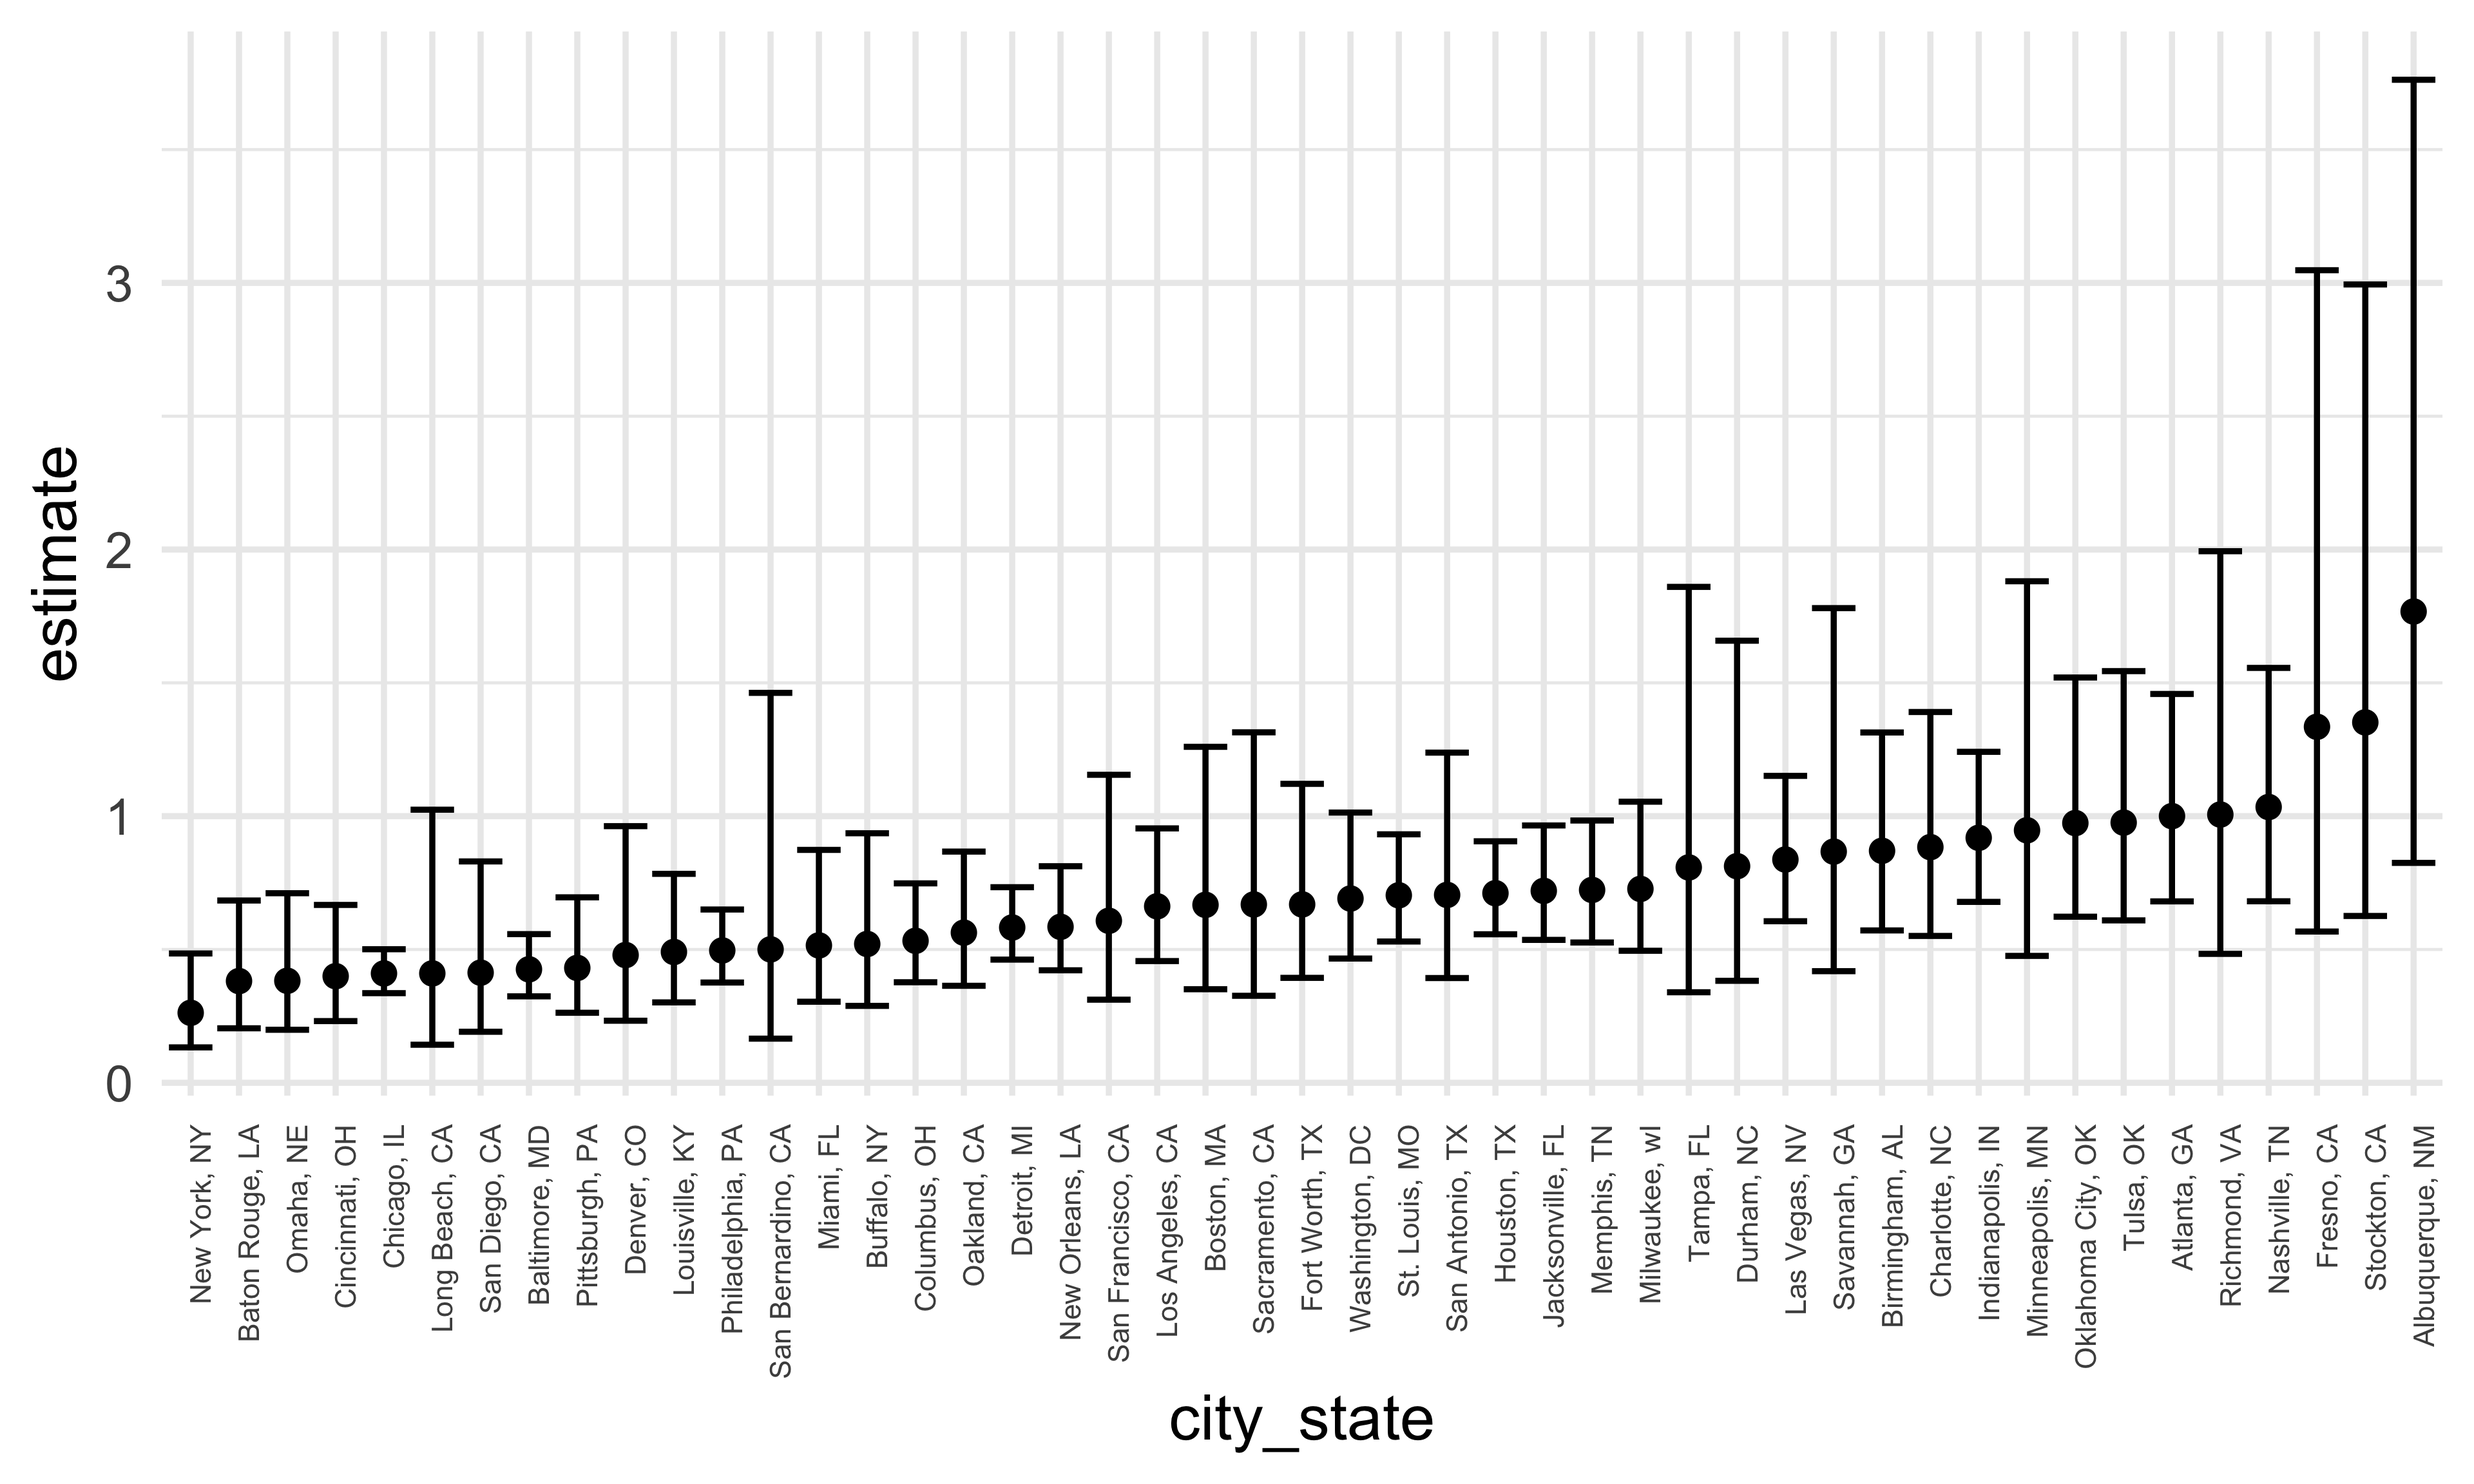
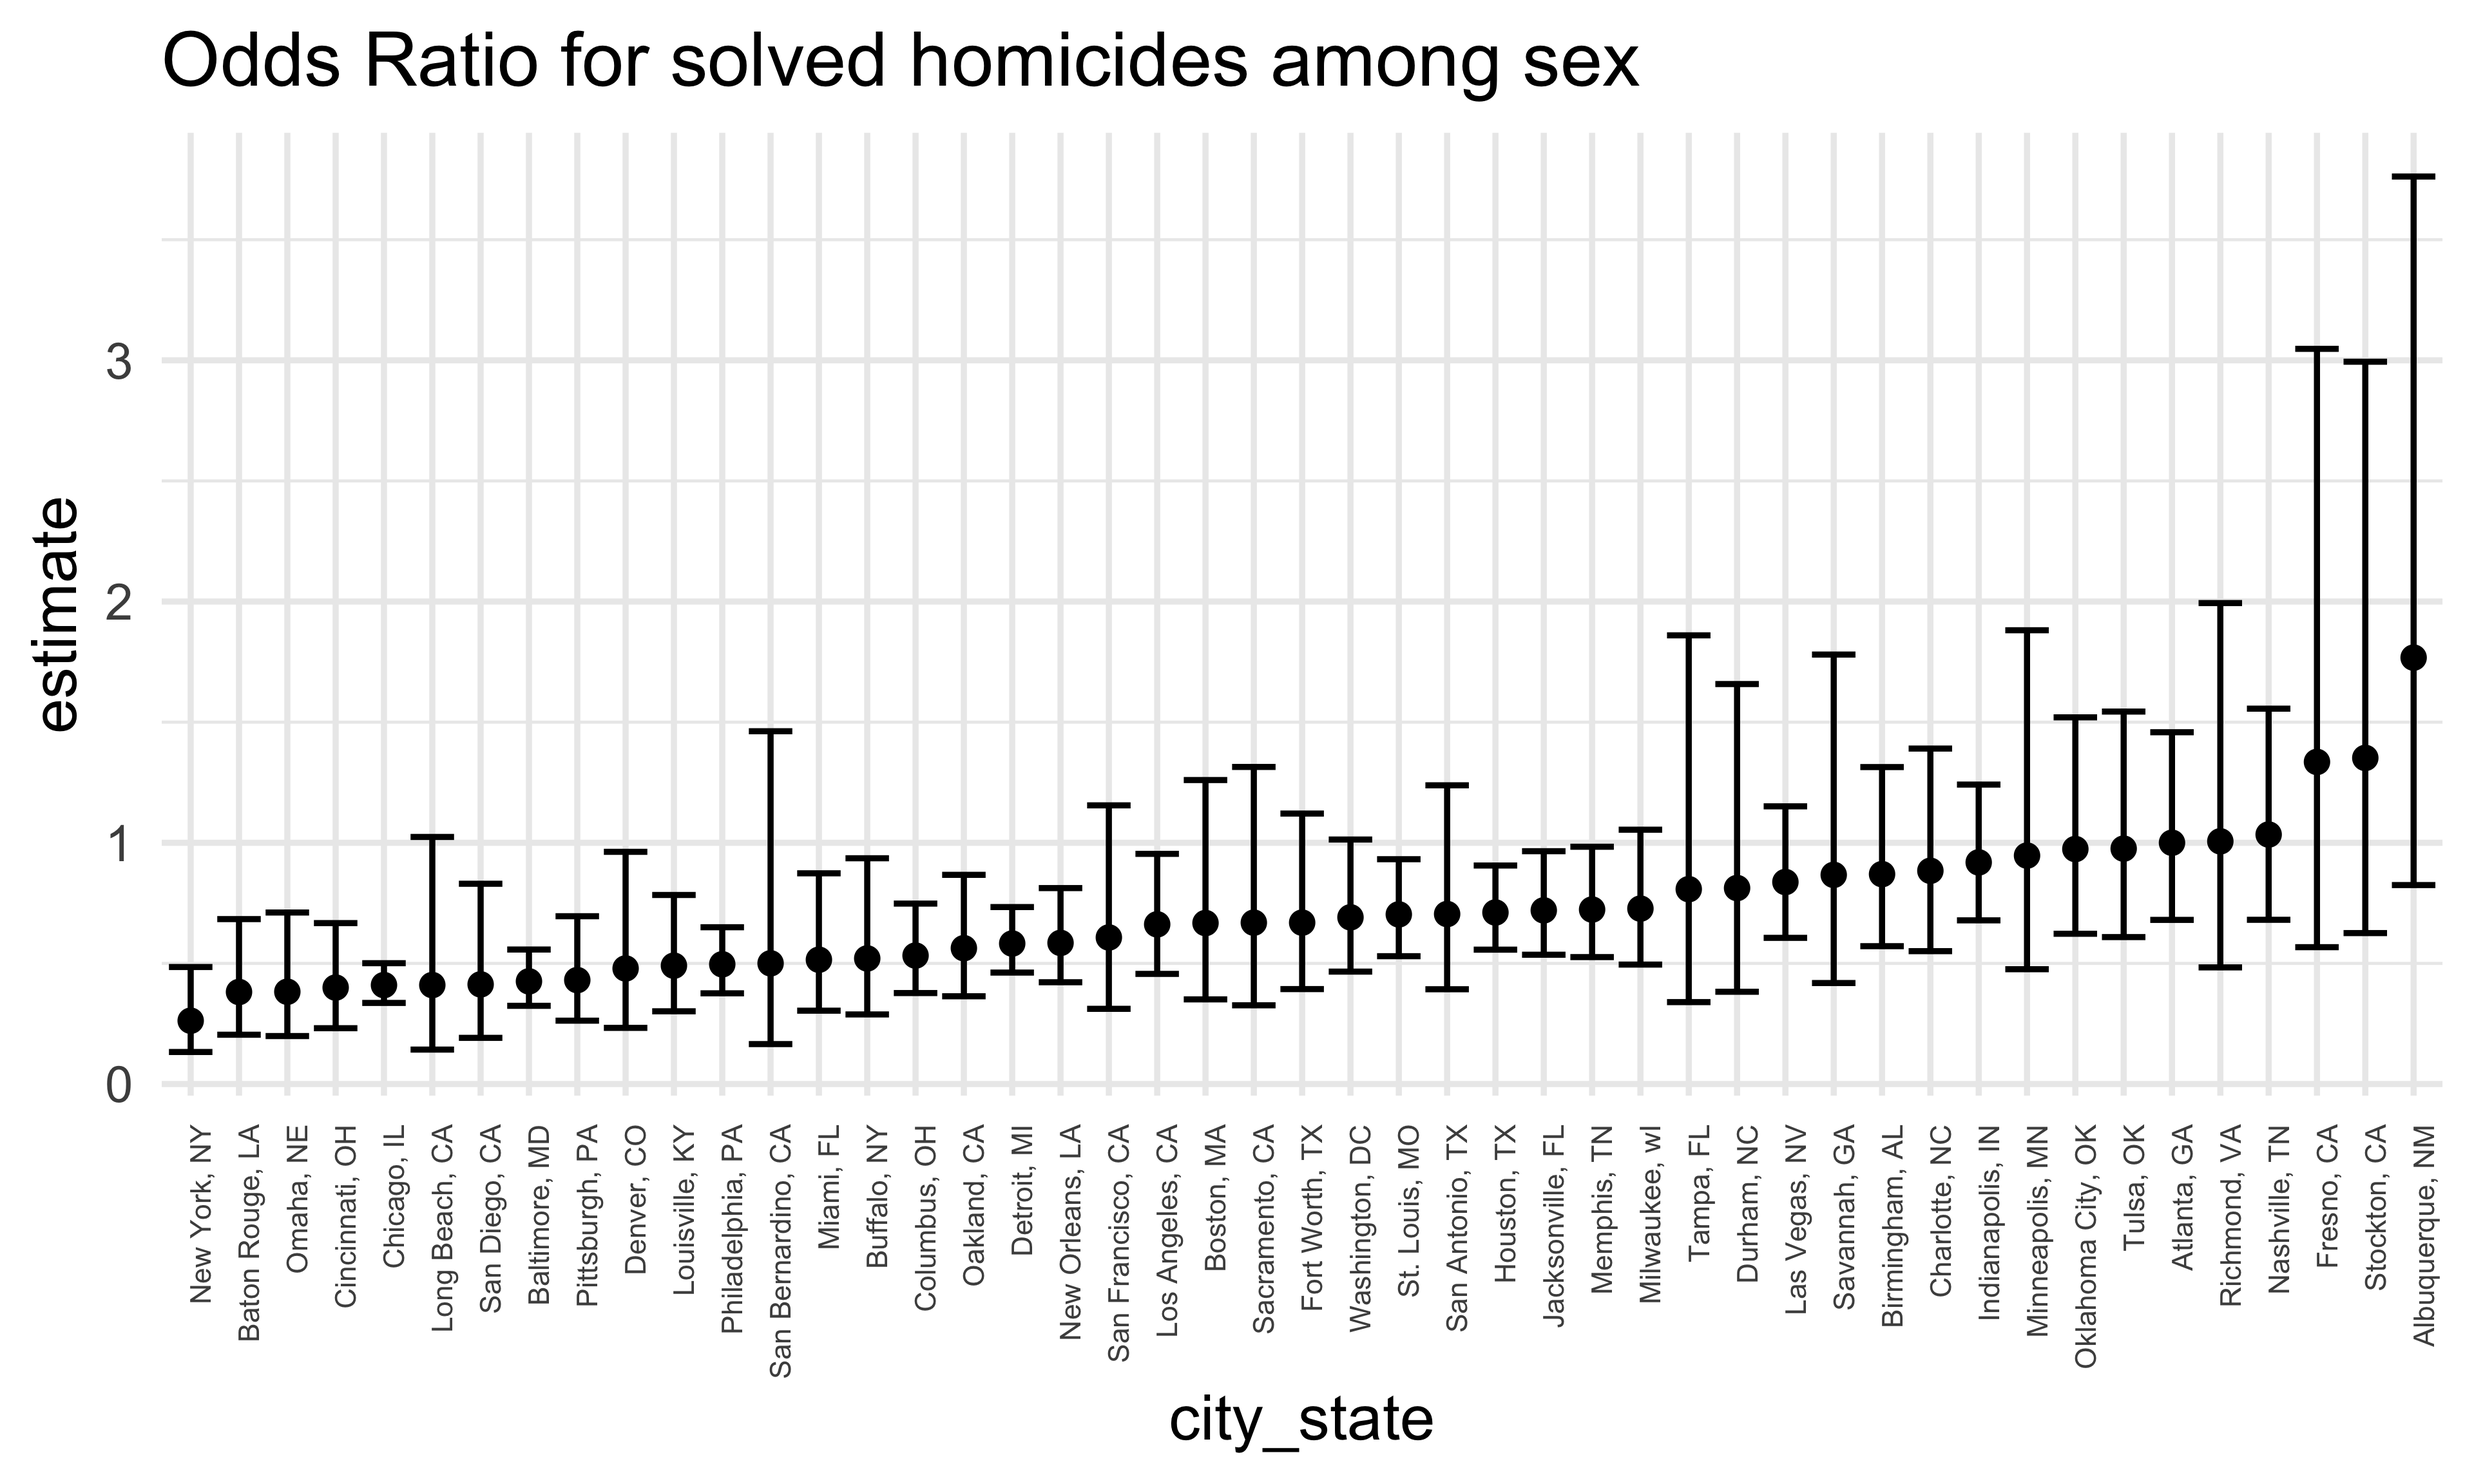
final version

diff --git a/p8105_hw6_bz2561.md b/p8105_hw6_bz2561.md
@@ -124,17 +124,21 @@ city_or_df |>
   ggplot(aes( x = city_state, y = estimate)) +
   geom_point() +
   geom_errorbar(aes(ymin = conf.low, ymax = conf.high)) +
-  theme(axis.text.x = element_text(size = 5,angle = 90,hjust = 1))
+  theme(axis.text.x = element_text(size = 5,angle = 90,hjust = 1)) +
+  ggtitle("Odds Ratio for solved homicides among sex")
 ```
 
 <img src="p8105_hw6_bz2561_files/figure-gfm/unnamed-chunk-8-1.png" width="90%" />
 
-``` r
-  ggtitle("Odds Ratio for Solving homicides among sex")
-```
-
-    ## <ggplot2::labels> List of 1
-    ##  $ title: chr "Odds Ratio for Solving homicides among sex"
+The plot shows substantial variation across cities in the adjusted odds
+ratios comparing homicide clearance for male versus female victims. In
+most cities, the estimated OR is below 1, suggesting that cases
+involving male victims are less likely to be solved than those involving
+female victims after adjusting for age and race. However, a few cities
+exhibit ORs above 1, indicating higher clearance odds for male victims.
+Several cities have wide confidence intervals, particularly where the
+ORs are extreme, reflecting greater uncertainty and likely smaller
+sample sizes.
 
 ## Problem 2
 
@@ -191,7 +195,14 @@ r2_dist |>
 
 <img src="p8105_hw6_bz2561_files/figure-gfm/unnamed-chunk-11-1.png" width="90%" />
 
-Then, look at the confidence interval for $r^2$\$
+The bootstrap distribution of $R^2$is unimodal and approximately
+symmetric, with most values concentrated around 0.94, indicating a
+strong fit of the model. The $95\%$ bootstrap confidence interval for
+$R^2$ ranges from 0.934 to 0.947, suggesting that the proportion of
+variability in daily maximum temperature explained by minimum
+temperature and precipitation is consistently high across resamples.
+
+Then, look at the confidence interval for $r^2$
 
 ``` r
 r2_dist |> 
@@ -225,6 +236,15 @@ coef_dist |>
 ```
 
 <img src="p8105_hw6_bz2561_files/figure-gfm/unnamed-chunk-13-1.png" width="90%" />
+
+The bootstrap distribution of $\frac{\hat{\beta_{1}}}{\hat{\beta_{2}}}$
+is unimodal but clearly skewed, with all values being negative. This
+indicates that the effects of minimum temperature and precipitation on
+maximum temperature have opposite signs and differ substantially in
+magnitude. The $95\%$ bootstrap confidence interval for
+$\frac{\hat{\beta_{1}}}{\hat{\beta_{2}}}$ ranges from −279.7 to −125.7,
+suggesting that this ratio is consistently negative across bootstrap
+samples.
 
 We may also look at the confidence interval for
 $\frac{\hat{\beta_{1}}}{\hat{\beta_{2}}}$.
